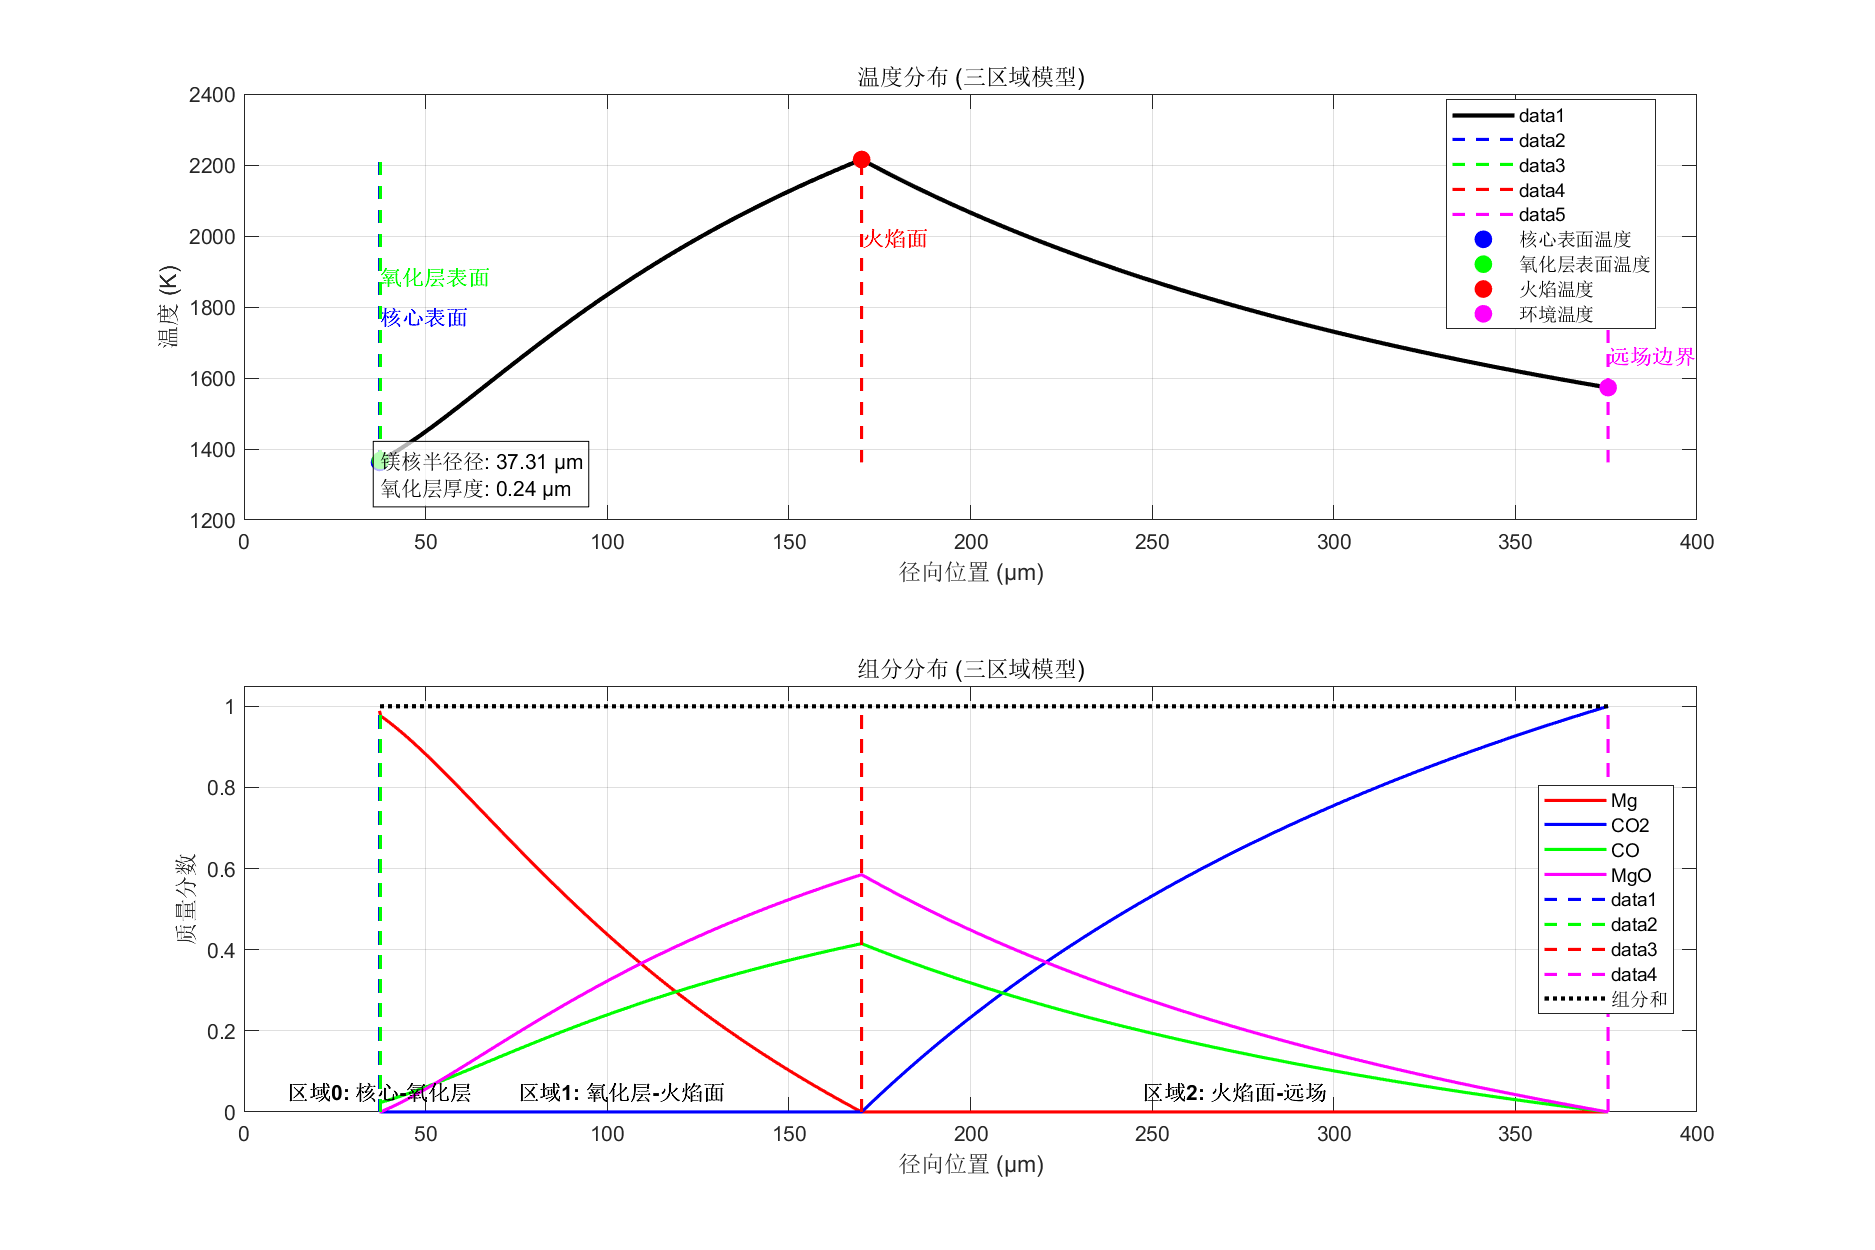
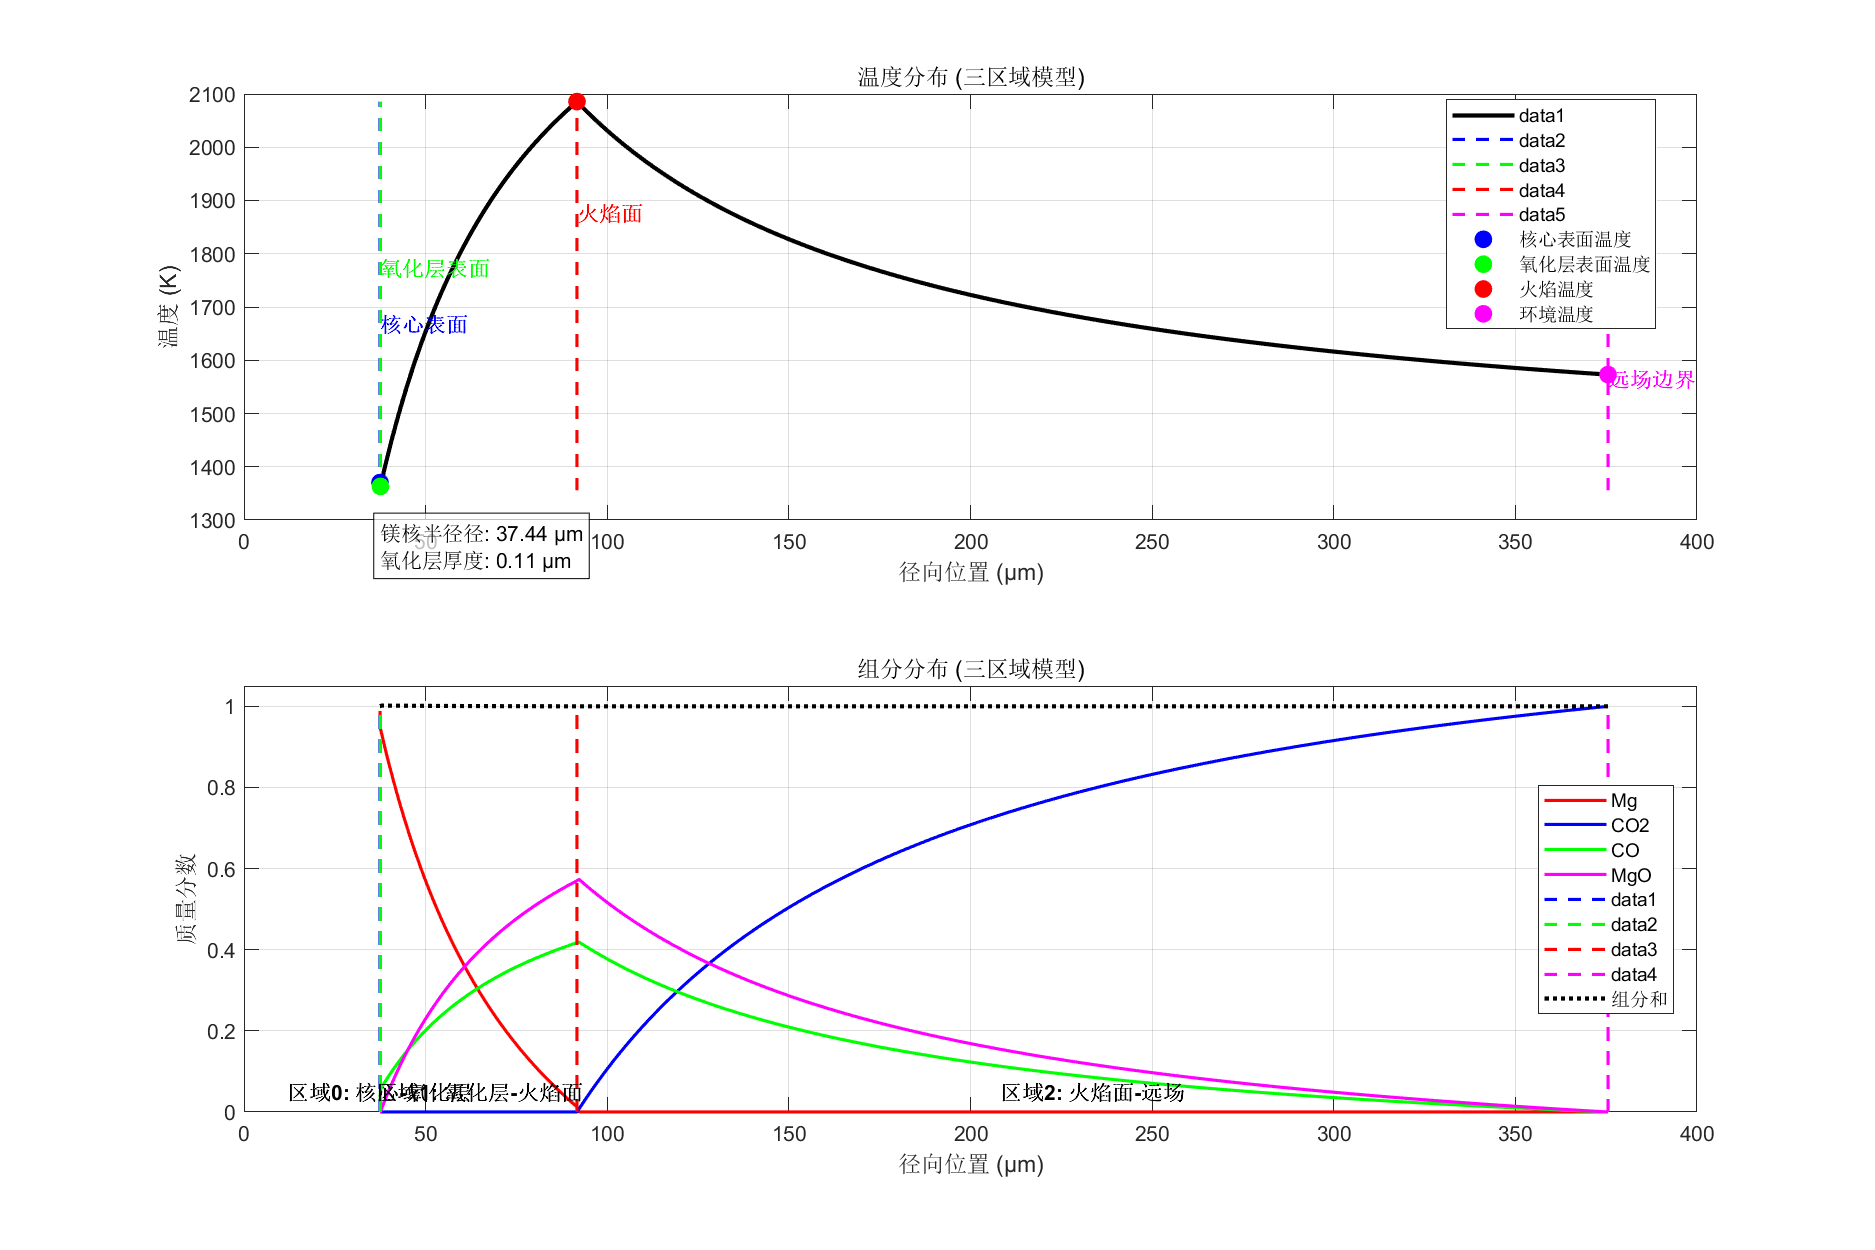
0923
123

diff --git a/particle-branch/solve_vaporization_algebraic.m b/particle-branch/solve_vaporization_algebraic.m
@@ -162,7 +162,7 @@ function rate_info = solve_vaporization_algebraic(bvp_deps, alpha_CO, alpha_MgO,
             %            'FunctionTolerance', 1e-4, 'StepTolerance', 1e-8, 'MaxFunctionEvaluations', 10000, ...
             %            'OutputFcn', @(x,optimValues,state) monitor_progress(x,optimValues,state,solve_env1));
             options1 = optimoptions('fsolve', 'Algorithm', 'levenberg-marquardt', 'Display', 'off', 'MaxIterations', 10000, ...
-                        'FunctionTolerance', 1e-4, 'StepTolerance', 1e-3, 'MaxFunctionEvaluations', 10000, ...
+                        'FunctionTolerance', 1e-5, 'StepTolerance', 1e-3, 'MaxFunctionEvaluations', 10000, ...
                         'OutputFcn', @(x,optimValues,state) monitor_progress(x,optimValues,state,solve_env1));
                     
             % 求解简化模型
@@ -236,7 +236,7 @@ function rate_info = solve_vaporization_algebraic(bvp_deps, alpha_CO, alpha_MgO,
             solve_env2.k_ox_gas = k_ox_gas ;
             % 简化的fsolve选项
             options2 = optimoptions('fsolve', 'Algorithm', 'levenberg-marquardt','Display', 'off', 'MaxIterations', 1000000, ...
-                        'FunctionTolerance', 1e-4, 'StepTolerance', 1e-5, 'MaxFunctionEvaluations', 1000000, ...
+                        'FunctionTolerance', 1e-5, 'StepTolerance', 1e-5, 'MaxFunctionEvaluations', 1000000, ...
                         'OutputFcn', @(x,optimValues,state) monitor_progress(x,optimValues,state,solve_env2));
             
             % 使用阶段1的解作为初值
@@ -415,7 +415,7 @@ function X0 = generate_initial_guess(m_dot_total,r_f, Pe_m, r_p, r_c,r_inf, T_p,
     % 为所有未知数生成无量纲化的初始猜测向量
     % 注意：无量纲化基准已改为金属核心半径r_c和金属核心温度T_c
     T_f_guess = 2400 ;
-    k = 0;
+    k = 0.315;
     % 气体物性的无量纲参数     co2  60 j/mol/k
     % 气体比热估计值 [J/(kg·K)]
     % co2  2000K    
@@ -816,7 +816,7 @@ function F = equations_system(X, env)
     % 区域1: Y(r) = (Y_surf - Y_frac) * (exp(Pe_m * ((1/r_p_nd) - (1/r_nd))) - 1) + Y_surf
     % 区域2: Y(r) = (Y_flame - Y_frac) * (exp(Pe_m * ((1/r_f_nd) - (1/r_nd))) - 1) + Y_flame
    
-    k = 0.05;
+    k = 0.315;
     % 提取求解环境
     bvp_deps = env.bvp_deps;
     simplified_mode = env.simplified_mode;
@@ -841,6 +841,8 @@ function F = equations_system(X, env)
     pState = bvp_deps.pState;
     physicalModel = bvp_deps.physicalModel;
   
+    alpha_CO = env.alpha_CO ;
+    alpha_MgO = env.alpha_MgO ;
     T_amb = params.ambient_temperature;
     mw = params.materials ;
     
@@ -958,6 +960,7 @@ function F = equations_system(X, env)
 
     m_dot_region0_Mg = m_dot_region1_Mg;
     m_dot_region0_CO = -(abs(m_dot_region1_CO) - m_dot_surface_CO);
+    %m_dot_region0_CO =m_dot_region1_CO;
     m_dot_region0_total = m_dot_region0_Mg + m_dot_region0_CO;
 
    
@@ -1032,7 +1035,7 @@ function F = equations_system(X, env)
     %r_inf_nd = 10 ;
     %r_inf_nd = params.r_inf_nd; 
     % 初始化残差向量 (34个方程: 8个新方程 + 原有26个方程)
-    F = zeros(36, 1);  % 减少到32个方程
+    F = zeros(38, 1);  % 减少到32个方程
     % --- 组0: 核心表面边界条件 (r = r_c) ---
      
     % BC 2: 表面Mg质量分数由克-克方程在沸点下的情况决定
@@ -1106,7 +1109,7 @@ function F = equations_system(X, env)
     %fprintf('  B0_nd: %.3e \n', B0_nd);
     %fprintf('  B0_calc_nd: %.3e \n', B0_calc_nd);
     %fprintf(' MG表面 Q_cod_region0: %.3e \n', Q_cod_region0);
-    F(8) = relaxation * (B0_nd - B0_calc_nd)*0.01;
+    F(8) = relaxation * (B0_nd - B0_calc_nd);
 
     % --- 组2: 颗粒表面边界条件 (r = r_p) ---
     % 注意：不再强制表面温度等于沸点，而是通过连续性条件确定
@@ -1169,7 +1172,7 @@ function F = equations_system(X, env)
     %fprintf('  B1_nd: %.3e \n', B1_nd);
     %fprintf('  B1_calc_nd: %.3e \n', B1_calc_nd);
     % 约束B1参数
-    F(10) = relaxation * (B1_nd - B1_calc_nd) * 0.01;  % 原来是F(14)，现在是F(12)
+    F(10) = relaxation * (B1_nd - B1_calc_nd)*1.0 ;  % 原来是F(14)，现在是F(12)
 
 
     exp_arg_Y_region1 = Pe_m_region1 * (1/r_p_nd - 1/r_f_nd);
@@ -1220,20 +1223,20 @@ function F = equations_system(X, env)
     %fprintf('  T_flame_region1: %.3e \n', T_flame_region1 * T_c);
     %fprintf('  Y_T_flame_nd: %.3e \n', Y_T_flame_nd);
     %fprintf('  T_flame_region1: %.3e \n', T_flame_region1 *T_c);
-    %fprintf('  Y_CO2_flame: %.3e \n', Y_CO2_flame );
+    %fprintf('  Y_Mg_region1_flame: %.3e \n', Y_Mg_region1_flame );
     F(16) = relaxation * (T_flame_region1-Y_T_flame_nd);  % 增强温度连续性
     F(17) = relaxation * (Y_CO2_region1_flame-Y_CO2_flame); % 增强组分连续
     %fprintf(' 求解过程中一区计算CO2浓度: %.3e \n', Y_CO2_region1_flame);
     %fprintf(' 求解过程中火焰面CO2浓度: %.3e \n', Y_CO2_flame);
-    F(18) = relaxation *(Y_Mg_region1_flame-Y_Mg_flame); % 增强组分连续
-    F(19) = relaxation * (Y_MgO_region1_flame-Y_MgO_flame); % 增强组分连续
-    F(20) = relaxation * (Y_CO_region1_flame-Y_CO_flame); % 增强组分连续
+    F(18) = relaxation *(Y_Mg_region1_flame-Y_Mg_flame)*10; % 增强组分连续
+    F(19) = relaxation * (Y_MgO_region1_flame-Y_MgO_flame)*10; % 增强组分连续
+    F(20) = relaxation * (Y_CO_region1_flame-Y_CO_flame)*10; % 增强组分连续
     % 火焰面组分和为1
     F(21) = relaxation * (Y_CO_flame + Y_MgO_flame + Y_Mg_flame + Y_CO2_flame - 1.0); % 增强组分和约束
     F(22) = relaxation * (Y_CO2_region1_flame+Y_CO_region1_flame+Y_Mg_region1_flame+Y_MgO_region1_flame-1); % 增强组分和约束
     % 反应物耗尽
-    F(23) = relaxation * Y_Mg_region1_flame*20; % 强化Mg在火焰面耗尽条件
-    F(24) = relaxation * Y_CO2_flame*20 ; % 强化火焰面CO2约束
+    F(23) = relaxation * Y_Mg_region1_flame*30; % 强化Mg在火焰面耗尽条件
+    F(24) = relaxation * Y_CO2_flame*30 ; % 强化火焰面CO2约束
     
     % 火焰面能量守恒
         
@@ -1290,8 +1293,13 @@ function F = equations_system(X, env)
     F(34) = relaxation * (Y_CO_frac2_cal- Y_CO_frac2);
     F(35) = relaxation * (Y_MgO_frac2_cal- Y_MgO_frac2);
     F(36) = relaxation * (Y_CO2_frac2_cal- Y_CO2_frac2);
-            
-    
+    X1 = abs(m_dot_region1_CO)/(abs(m_dot_region1_CO)+abs(m_dot_region2_CO)) ;
+    X2 = abs(m_dot_region1_MgO)/(abs(m_dot_region1_MgO)+abs(m_dot_region2_MgO)) ;
+    %fprintf('  X1: %.3e,X2 %.3e: \n', X1,X2);
+    %F(37) = relaxation * (X1- 0.001);
+    %F(37) = relaxation * (X1- 0.15);
+    %F(38) = relaxation * (X2- 0.001);        
+    %F(38) = relaxation * (X2- 0.15);    
 end
 
 function [coeffs_0, coeffs_1, coeffs_2] = extract_solution_coeffs(X)
@@ -1335,16 +1343,32 @@ function [coeffs_0, coeffs_1, coeffs_2] = extract_solution_coeffs(X)
     coeffs_2.Y_MgO_flame = X(27);   % 火焰面MgO质量分数
     coeffs_2.Y_MgO_frac = X(28);    % 区域2 MgO在总质量流率中的比例
    
-        % fprintf(' coeffs_0.Y_T_core: %.3e \n', coeffs_0.Y_T_core);
-         fprintf(' coeffs_0.Y_Mg_frac: %.3e \n', coeffs_0.Y_Mg_frac);
-        % fprintf(' coeffs_1.Y_Mg_surf: %.3e \n', coeffs_1.Y_Mg_surf);
-        % fprintf(' coeffs_1.Y_MgO_frac: %.3e \n', coeffs_1.Y_MgO_frac);
-        % fprintf(' coeffs_2.Y_T_flame: %.3e \n', coeffs_2.Y_T_flame);
-        % fprintf(' coeffs_0.Y_T_core: %.3e \n', coeffs_0.Y_T_core);
-        % fprintf(' coeffs_2.Y_Mg_flame: %.3e \n', coeffs_2.Y_Mg_flame);
-        % fprintf(' coeffs_2.Y_Mg_frac: %.3e \n', coeffs_2.Y_Mg_frac);
-        % fprintf(' coeffs_2.Y_CO2_flame: %.3e \n', coeffs_2.Y_CO2_flame);
-        % fprintf(' coeffs_2.Y_CO2_frac: %.3e \n', coeffs_2.Y_CO2_frac);
+        fprintf(' coeffs_0.Y_T_core: %.3e \n', coeffs_0.Y_T_core);
+        fprintf(' coeffs_0.Y_Mg_core: %.3e \n', coeffs_0.Y_Mg_core);
+        fprintf(' coeffs_0.Y_CO_core: %.3e \n', coeffs_0.Y_CO_core);
+        fprintf(' coeffs_0.Y_Mg_frac: %.3e \n', coeffs_0.Y_Mg_frac);
+        fprintf(' coeffs_0.Y_CO_frac: %.3e \n', coeffs_0.Y_CO_frac);
+
+        fprintf(' coeffs_1.Y_T_surf: %.3e \n', coeffs_1.Y_T_surf);
+        fprintf(' coeffs_1.Y_Mg_surf: %.3e \n', coeffs_1.Y_Mg_surf);
+        fprintf(' coeffs_1.Y_Mg_frac: %.3e \n', coeffs_1.Y_Mg_frac);
+        fprintf(' coeffs_1.Y_CO_surf: %.3e \n', coeffs_1.Y_CO_surf);
+        fprintf(' coeffs_1.Y_CO_frac: %.3e \n', coeffs_1.Y_CO_frac);
+        fprintf(' coeffs_1.Y_CO2_surf: %.3e \n', coeffs_1.Y_CO2_surf);
+        fprintf(' coeffs_1.Y_CO2_frac: %.3e \n', coeffs_1.Y_CO2_frac);
+        fprintf(' coeffs_1.Y_MgO_surf: %.3e \n', coeffs_1.Y_MgO_surf);
+        fprintf(' coeffs_1.Y_MgO_frac: %.3e \n', coeffs_1.Y_MgO_frac);
+
+        fprintf(' coeffs_2.Y_T_flame: %.3e \n', coeffs_2.Y_T_flame);
+        fprintf(' coeffs_2.Y_CO_flame: %.3e \n', coeffs_2.Y_CO_flame);
+        fprintf(' coeffs_2.Y_CO_frac: %.3e \n', coeffs_2.Y_CO_frac);
+        fprintf(' coeffs_2.Y_CO2_flame: %.3e \n', coeffs_2.Y_CO2_flame);
+        fprintf(' coeffs_2.Y_CO2_frac: %.3e \n', coeffs_2.Y_CO2_frac);
+        fprintf(' coeffs_2.Y_MgO_flame: %.3e \n', coeffs_2.Y_MgO_flame);
+        fprintf(' coeffs_2.Y_MgO_frac: %.3e \n', coeffs_2.Y_MgO_frac);
+        fprintf(' coeffs_2.Y_Mg_flame: %.3e \n', coeffs_2.Y_Mg_flame);
+        fprintf(' coeffs_2.Y_Mg_frac: %.3e \n', coeffs_2.Y_Mg_frac);
+        
         % 
 end
 
@@ -1989,18 +2013,26 @@ end
         max_residual = max(abs(fval));
         [max_val, max_idx] = max(abs(fval));
         % 提取关键物理量
+
+        rho_D_gas = solve_env.rho_D_gas;
+
+
         r_f_nd = X(1);
         Pe_m = X(2);
         Y_T_surf = X(3);
         Y_T_flame = X(13);
+        Y_Mg_frac1 = X(12);
+       
         T_p = solve_env.T_p;
         T_c = solve_env.T_c;
         r_c = solve_env.r_c;
         r_p = solve_env.r_p;
         r_f = r_f_nd * r_c;
         r_f_nd = r_f / r_p;
+        m_dot_region1_total = Pe_m * (4 * pi * r_c * rho_D_gas) ;
+        m_dot_region1_Mg = Y_Mg_frac1 * m_dot_region1_total;
         %fprintf('T_surf: %.5e\n', Y_T_surf*1366);
-        %fprintf('T_flame: %.5e\n', Y_T_flame*1366);
+        fprintf('m_dot_region1_Mg: %.5e\n', m_dot_region1_Mg);
         %fprintf('表面温差: %.5f K\n', (Y_T_surf-1)*1366);
         fprintf('r_f_nd(相对于颗粒表面的): %.5e\n', r_f_nd);
         % 基本物理合理性检查
@@ -2136,6 +2168,7 @@ end
         % 计算各组分物理质量流率
         m_dot_region0_Mg = m_dot_region1_Mg ;
         m_dot_region0_CO = -(abs(m_dot_region1_CO) - m_dot_surface_CO);
+        %m_dot_region0_CO =m_dot_region1_CO;
         m_dot_region0_total = m_dot_region0_Mg + m_dot_region0_CO;
         
         
@@ -2161,6 +2194,31 @@ end
         Pe_cp_region2 = m_dot_region2_total * cp_gas / (4 * pi * r_c * k_gas);
         %Pe_cp_region2 = m_dot_region2_total / (4 * pi * r_c * ratio_k_cp_gas);
         
+
+        if params.debug 
+            fprintf(' m_dot_region0_Mg: %.3e \n', m_dot_region0_Mg);
+            fprintf(' m_dot_region0_CO: %.3e \n', m_dot_region0_CO);
+
+            fprintf(' m_dot_region0_total: %.3e \n', m_dot_region0_total);
+            fprintf(' m_dot_region1_Mg: %.3e \n', m_dot_region1_Mg);
+            fprintf(' m_dot_region1_CO: %.3e \n', m_dot_region1_CO);
+            fprintf(' m_dot_region1_MgO: %.3e \n', m_dot_region1_MgO);
+            fprintf(' m_dot_region1_CO2: %.3e \n', m_dot_region1_CO2);
+            fprintf(' m_dot_region1_total: %.3e \n', m_dot_region0_Mg);
+            fprintf(' m_dot_region2_CO2: %.3e \n', m_dot_region2_CO2);
+            fprintf(' m_dot_region2_Mg: %.3e \n', m_dot_region2_Mg);
+            fprintf(' m_dot_region2_MgO: %.3e \n', m_dot_region2_MgO);
+            fprintf(' m_dot_region2_CO: %.3e \n', m_dot_region2_CO);
+            fprintf(' m_dot_region2_total: %.3e \n', m_dot_region2_total);
+            fprintf(' Pe_m_region0: %.3e \n', Pe_m_region0);
+            fprintf(' Pe_m_region1: %.3e \n', Pe_m_region1);
+            fprintf(' Pe_m_region2: %.3e \n', Pe_m_region2);
+            fprintf(' Pe_cp_region0: %.3e \n', Pe_cp_region0);
+            fprintf(' Pe_cp_region1: %.3e \n', Pe_cp_region1);
+            fprintf(' Pe_cp_region2: %.3e \n', Pe_cp_region2);
+
+
+        end
         % 记录有效远场边界索引
         effective_boundary_idx = n_pts;
         T_amb_nd = T_amb / T_c;  % 无量纲环境温度
@@ -2230,8 +2288,8 @@ end
         exp_arg_T = Pe_cp_region1 * (1/r_p_nd - 1/r_f_nd);
         exp_term_T = exp(exp_arg_T) - 1;
         T_flame_1 = coeffs_1.Y_T_surf + (coeffs_1.Y_T_surf + coeffs_1.m_dot_B1_cp_ratio) * exp_term_T;
-        fprintf('  T_flame_1: %.3e \n', T_flame_1*T_c);
-        fprintf('  T_flame: %.3e \n', coeffs_2.Y_T_flame*T_c);
+        %fprintf('  T_flame_1: %.3e \n', T_flame_1*T_c);
+        %fprintf('  T_flame: %.3e \n', coeffs_2.Y_T_flame*T_c);
 
 
         % 截断到有效远场边界

diff --git a/particle-branch/Parameters.m b/particle-branch/Parameters.m
@@ -78,7 +78,7 @@
             'nu_oxide', 0.25, ...           % 氧化镁泊松比
             'oxide_limit_stress', 300e6, ... % 氧化层极限应力 (Pa)
             'oxide_porosity', 0.2, ...      % 氧化层孔隙率
-            'oxide_tortuosity', 5, ...    % 氧化层弯曲度因子  2.5
+            'oxide_tortuosity',5, ...    % 氧化层弯曲度因子  2.5
             'k_solid_MgO', 30, ...          % MgO导热系数(W/m/K)
             'k_solid_C', 100, ...           % C导热系数(W/m/K)
             'emissivity_oxide', 0.9 ...     % 氧化层辐射率
@@ -175,7 +175,7 @@
         current_stage = '';              % 当前阶段标记
         consider_oxide_break = false;     % 是否考虑氧化层破裂
         plot_radial_distributions = true ;
-        visualize_realtime = true;      % 是否开启实时可视化
+        visualize_realtime = false;      % 是否开启实时可视化
         visualize_realtime_interval = 1e-4; % 实时可视化更新时间间隔(s)
         use_solution_cache = false;       % 是否启用代数方程求解缓存机制
         

diff --git a/particle-branch/main.m b/particle-branch/main.m
@@ -1,6 +1,6 @@
 % Mg颗粒燃烧仿真主程序
 % 分阶段模拟Mg颗粒在CO2环境中的加热、熔融和反应过程
-
+7
 % 清理工作空间
 clear;
 clc;
@@ -26,7 +26,7 @@ fprintf('仿真完成！\n');
 %if ~exist('results', 'dir')
 %    mkdir('results'); 
 %end
-%save('results/simulation_results.mat', 'results');
+%save('results/simulation_results.mat', 'results'); 
 % 使用Visualization类的专用方法导出CSV，而不是直接转换结构体
 %Visualization.exportToCSV(results, 'results/simulation_results.csv');
 % writetable(struct2table(results), 'results/simulation_results.csv');

diff --git a/particle-branch/VaporizationODE.m b/particle-branch/VaporizationODE.m
@@ -231,7 +231,8 @@ classdef VaporizationODE < handle
             dydt(3) = rate_info.dmdt_c;      % C质量变化率
            
             if dydt(1) < 1e-7
-                %stop;
+                fprintf('t=%.4f s Mg质量变化率: %.3e kg/s\n', t, dydt(1));
+                stop;
             end
             % 核心半径变化率
             rho_mg = obj.params.materials.Mg.density_low;
